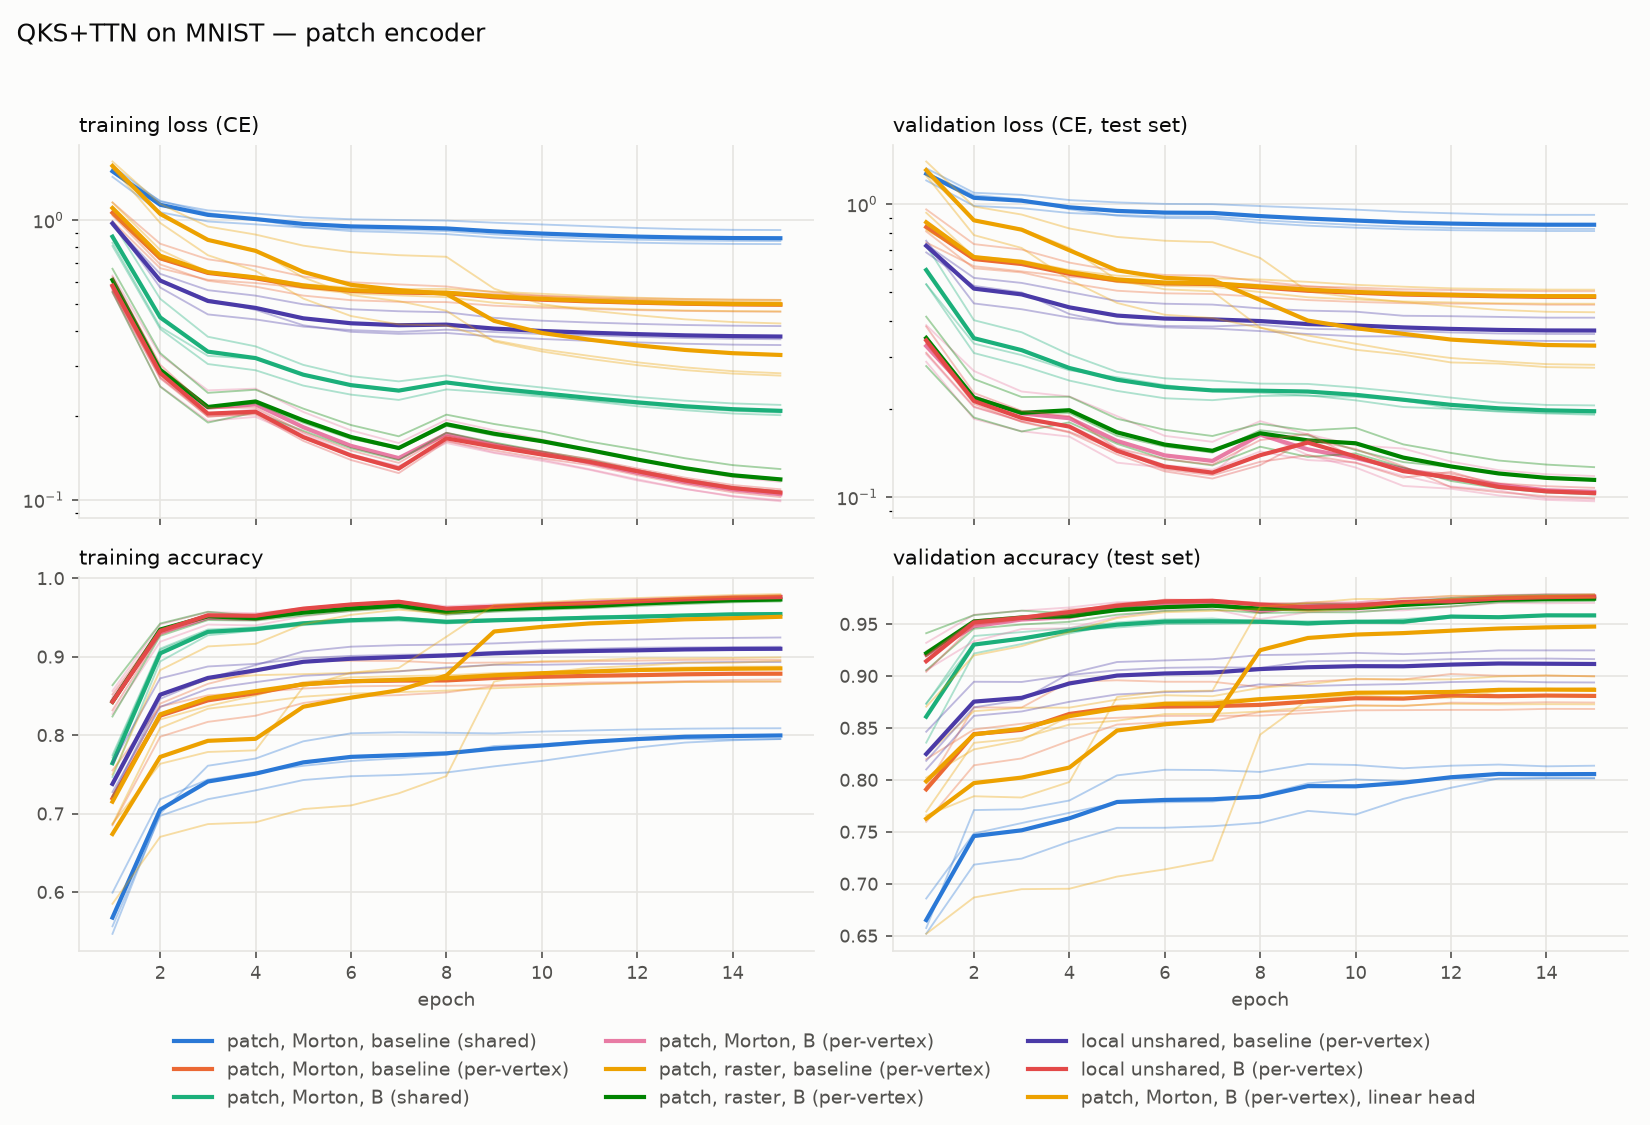
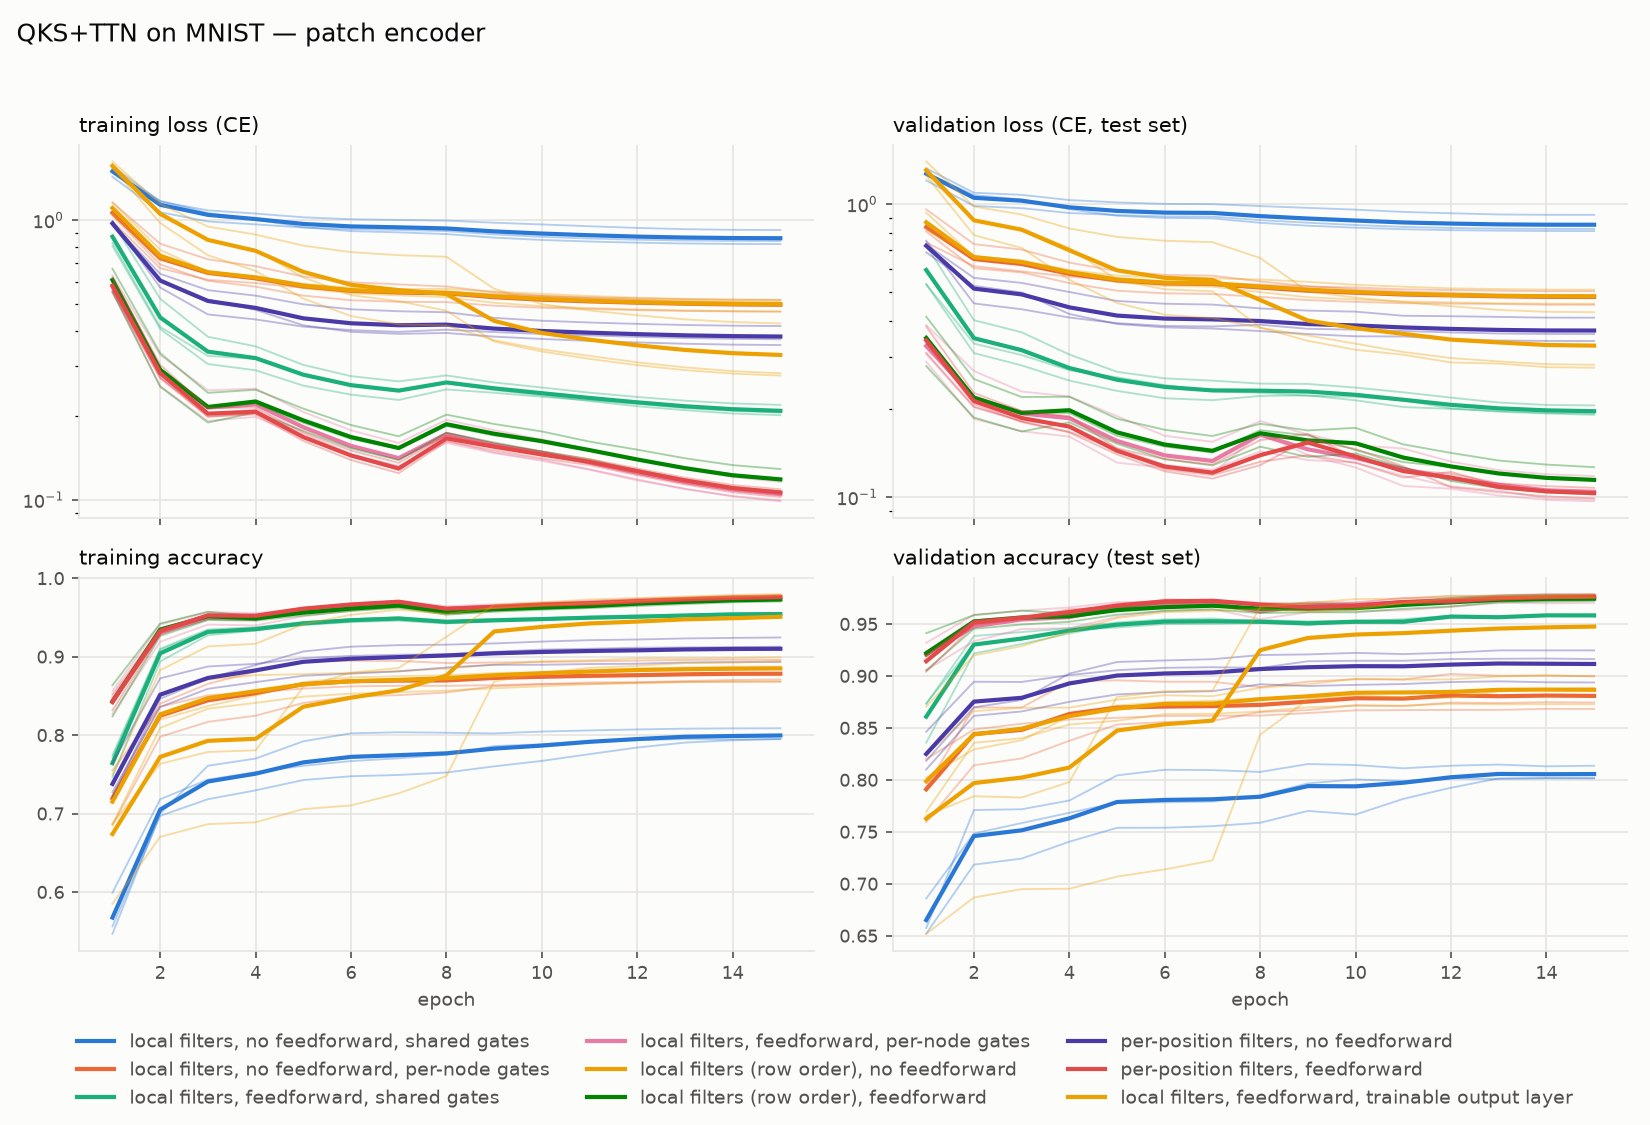
Plain-language figure legends: drop mode letters and 'per-vertex' (feedforward statistics/single-shot, shared vs per-node gates); regenerate all embedded figures

Changed region(s): [[0.3709, 0.9022, 0.9582, 0.9956], [0.0618, 0.9022, 0.34, 0.9956]]

diff --git a/qks-tn-library/make_summary_figure.py b/qks-tn-library/make_summary_figure.py
@@ -20,24 +20,24 @@ HERE = os.path.dirname(os.path.abspath(__file__))
 
 # (dataset, label, matcher) -- matcher picks runs by their recorded cfg/params
 ROWS = [
-    ("cifar10", "paper's model (dense, chi=4)", dict(encoder="dense", mode="baseline", share=True, chi=4, groups=1)),
-    ("cifar10", "+ per-vertex unitaries", dict(encoder="dense", mode="baseline", share=False, chi=4, groups=1)),
-    ("cifar10", "+ feedforward B", dict(encoder="dense", mode="B", share=False, chi=4, groups=1)),
-    ("cifar10", "+ patch-local encoder", dict(encoder="patch", mode="baseline", share=False, chi=4, groups=1)),
-    ("cifar10", "+ patch + feedforward B", dict(encoder="patch", mode="B", share=False, chi=4, groups=1)),
+    ("cifar10", "paper's model", dict(encoder="dense", mode="baseline", share=True, chi=4, groups=1)),
+    ("cifar10", "+ per-node gates (no feedforward)", dict(encoder="dense", mode="baseline", share=False, chi=4, groups=1)),
+    ("cifar10", "+ feedforward", dict(encoder="dense", mode="B", share=False, chi=4, groups=1)),
+    ("cifar10", "+ local filters (no feedforward)", dict(encoder="patch", mode="baseline", share=False, chi=4, groups=1)),
+    ("cifar10", "+ local filters + feedforward", dict(encoder="patch", mode="B", share=False, chi=4, groups=1)),
     ("cifar10", "+ G=2 feature maps", dict(encoder="patch", mode="B", share=False, chi=4, groups=2)),
     ("cifar10", "+ G=4 feature maps", dict(encoder="patch", mode="B", share=False, chi=4, groups=4)),
     ("cifar10", "two-stage re-encoding", dict(encoder="twostage", mode="B", share=False, chi=4, groups=1)),
-    ("cifar10", "chi=8, patch, no feedforward", dict(encoder="patch", mode="baseline", share=False, chi=8, groups=1)),
-    ("cifar10", "chi=8, patch + feedforward B", dict(encoder="patch", mode="B", share=False, chi=8, groups=1)),
-    ("cifar10", "chi=16, patch, no feedforward", dict(encoder="patch", mode="baseline", share=True, chi=16, groups=1)),
-    ("cifar10", "chi=16, patch + feedforward B", dict(encoder="patch", mode="B", share=True, chi=16, groups=1)),
-    ("multiclass", "paper's model (dense, chi=4)", dict(encoder="dense", mode="baseline", share=True, chi=4, groups=1)),
-    ("multiclass", "+ feedforward B", dict(encoder="dense", mode="B", share=False, chi=4, groups=1)),
-    ("multiclass", "+ patch-local encoder", dict(encoder="patch", mode="baseline", share=False, chi=4, groups=1)),
-    ("multiclass", "+ patch + feedforward B", dict(encoder="patch", mode="B", share=False, chi=4, groups=1)),
-    ("multiclass", "chi=8, dense + feedforward B", dict(encoder="dense", mode="B", share=False, chi=8, groups=1)),
-    ("multiclass", "chi=8, patch + feedforward B", dict(encoder="patch", mode="B", share=False, chi=8, groups=1)),
+    ("cifar10", "chi=8, local filters, no feedforward", dict(encoder="patch", mode="baseline", share=False, chi=8, groups=1)),
+    ("cifar10", "chi=8, local filters + feedforward", dict(encoder="patch", mode="B", share=False, chi=8, groups=1)),
+    ("cifar10", "chi=16, local filters, no feedforward", dict(encoder="patch", mode="baseline", share=True, chi=16, groups=1)),
+    ("cifar10", "chi=16, local filters + feedforward", dict(encoder="patch", mode="B", share=True, chi=16, groups=1)),
+    ("multiclass", "paper's model", dict(encoder="dense", mode="baseline", share=True, chi=4, groups=1)),
+    ("multiclass", "+ feedforward", dict(encoder="dense", mode="B", share=False, chi=4, groups=1)),
+    ("multiclass", "+ local filters (no feedforward)", dict(encoder="patch", mode="baseline", share=False, chi=4, groups=1)),
+    ("multiclass", "+ local filters + feedforward", dict(encoder="patch", mode="B", share=False, chi=4, groups=1)),
+    ("multiclass", "chi=8, feedforward", dict(encoder="dense", mode="B", share=False, chi=8, groups=1)),
+    ("multiclass", "chi=8, local filters + feedforward", dict(encoder="patch", mode="B", share=False, chi=8, groups=1)),
 ]
 
 PALETTE = {4: "#2a78d6", 8: "#eb6834", 16: "#1baf7a"}

diff --git a/qks-tn-library/analyze_ff_runs.py b/qks-tn-library/analyze_ff_runs.py
@@ -67,35 +67,41 @@ SLOT.update({"F0": SLOT["C0"], "F2": SLOT["C2"], "F5": SLOT["C5"]})
 SLOT.update({"C2s16": 2, "C2s128": 2, "C2s1024": 2, "C2root": 2, "C2top2": 2})
 SLOT.update({"T1": 6, "T4": 7, "L0": 0, "L1": 1, "L2": 2, "L4": 4, "R1": 3, "R4": 5, "U1": 6, "U4": 7, "L4lin": 3, "C4lin": 3})
 LABEL = {
-    "C0": "baseline (shared)",
-    "C1": "baseline (per-vertex)",
-    "C2": "B: multishot feedforward",
-    "C3": "B, constant p (null)",
-    "C4": "B (per-vertex)",
-    "C5": "A: single-shot feedforward",
-    "C6": "A (per-vertex)",
-    "C0old": "baseline, original TNLayer",
-    "F0": "baseline (shared)",
-    "F2": "B: multishot feedforward",
-    "F5": "A: single-shot feedforward",
-    "C2c": "B, centred features",
-    "C2s16": "B, 16 shots",
-    "C2s128": "B, 128 shots",
-    "C2s1024": "B, 1024 shots",
-    "C2root": "B, root only",
-    "C2top2": "B, layers 4-5",
-    "L0": "patch, Morton, baseline (shared)",
-    "L1": "patch, Morton, baseline (per-vertex)",
-    "L2": "patch, Morton, B (shared)",
-    "L4": "patch, Morton, B (per-vertex)",
-    "R1": "patch, raster, baseline (per-vertex)",
-    "R4": "patch, raster, B (per-vertex)",
-    "U1": "local unshared, baseline (per-vertex)",
-    "U4": "local unshared, B (per-vertex)",
-    "T1": "two-stage, baseline (per-vertex)",
-    "T4": "two-stage, B (per-vertex)",
-    "L4lin": "patch, Morton, B (per-vertex), linear head",
-    "C4lin": "dense, B (per-vertex), linear head",
+    # Plain-language scheme: [encoder] - [feedforward] - [gate sharing].
+    # "shared gates" = one unitary reused by every node of a tree layer (the paper's setting);
+    # "per-node gates" = each tree node has its own unitary.
+    # "feedforward (statistics)" = measured outcome statistics of the discarded register set the
+    # next gate's parameters (the design note's multishot Case B);
+    # "feedforward (single-shot)" = the gate is conditioned on the measured outcome itself (Case A).
+    "C0": "no feedforward, shared gates",
+    "C1": "no feedforward, per-node gates",
+    "C2": "feedforward (statistics), shared gates",
+    "C3": "feedforward control: constant input",
+    "C4": "feedforward (statistics), per-node gates",
+    "C5": "feedforward (single-shot), shared gates",
+    "C6": "feedforward (single-shot), per-node gates",
+    "C0old": "original implementation",
+    "F0": "no feedforward, shared gates",
+    "F2": "feedforward (statistics), shared gates",
+    "F5": "feedforward (single-shot), shared gates",
+    "C2c": "feedforward, centred statistics",
+    "C2s16": "feedforward from 16 measurements",
+    "C2s128": "feedforward from 128 measurements",
+    "C2s1024": "feedforward from 1024 measurements",
+    "C2root": "feedforward at the top node only",
+    "C2top2": "feedforward in the top two layers",
+    "L0": "local filters, no feedforward, shared gates",
+    "L1": "local filters, no feedforward, per-node gates",
+    "L2": "local filters, feedforward, shared gates",
+    "L4": "local filters, feedforward, per-node gates",
+    "R1": "local filters (row order), no feedforward",
+    "R4": "local filters (row order), feedforward",
+    "U1": "per-position filters, no feedforward",
+    "U4": "per-position filters, feedforward",
+    "T1": "two-stage, no feedforward",
+    "T4": "two-stage, feedforward",
+    "L4lin": "local filters, feedforward, trainable output layer",
+    "C4lin": "feedforward, trainable output layer",
 }
 _MATCH_KEYS = ["mode", "share_per_layer", "ff_null", "shots", "ff_layers", "ff_features", "freeze_qks", "impl",
                "encoder", "leaf_order", "share_positions", "head", "nepisodes"]
